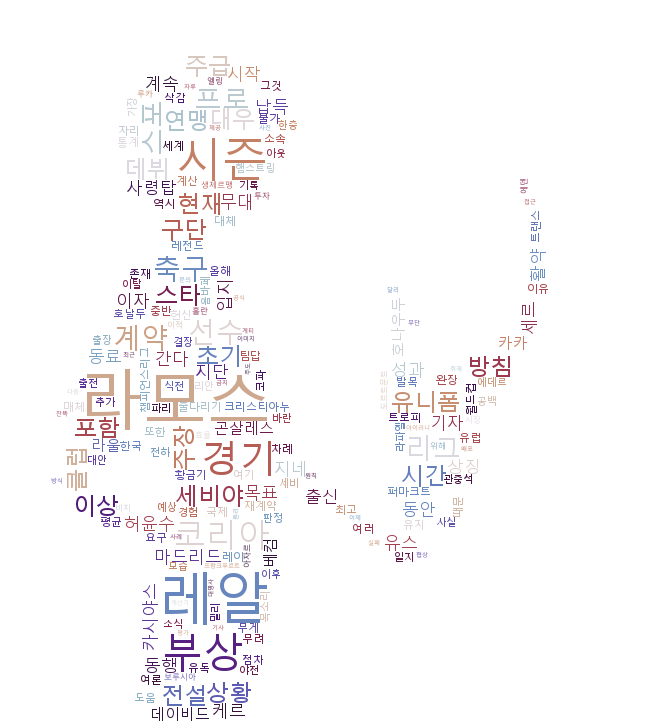
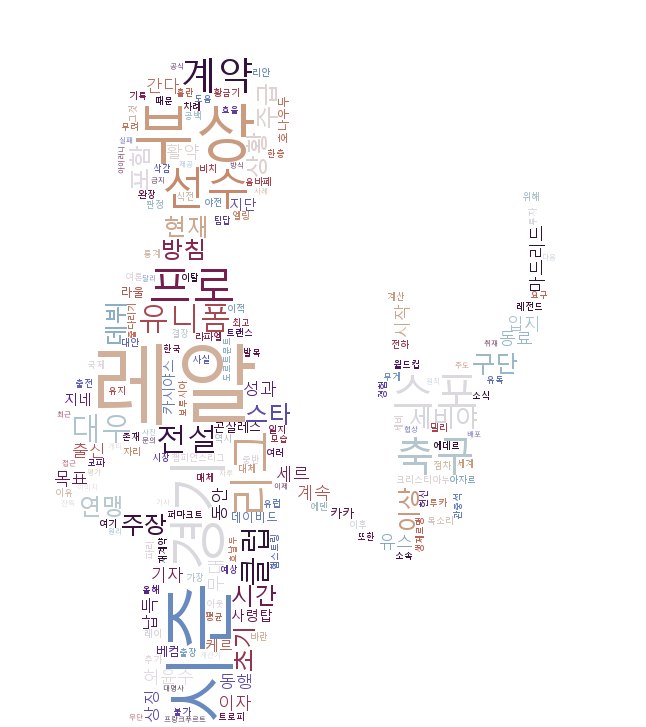
0513

Changed region(s): [[0.0929, 0.0605, 0.5573, 0.9986], [0.5573, 0.2421, 0.8669, 0.7868]]

diff --git a/SSW/ssw_20210513.py b/SSW/ssw_20210513.py
@@ -1,0 +1,115 @@
+'''
+이미지 처리
+https://pillow.readthedocs.io/en/stable/
+'''
+
+from PIL import Image, ImageFilter, ImageDraw, ImageFont
+import matplotlib.pyplot as plt
+import matplotlib.image as img
+
+# 간단한 사용법
+im = Image.open('mask.jpg')         # 이미지 파일 오픈
+print(im)
+print(im.format, im.size, im.mode)  # 이미지 파일 정보
+
+im.save('output.jpg')             # 파일 변환(저장)
+
+
+# 썸네일 생성
+im = Image.open('original.png')
+print(im.format, im.size, im.mode)
+
+im.thumbnail( (64, 64) )    # thumbnail( (가로, 세로) )
+im.save('output_thumbnail.png')
+
+
+# 이미지 자르기
+im = Image.open('original.png')
+temp = im.crop( (50, 50, 300, 300) )   # crop( (x1, y1, x2, y2) )
+temp.save('output_crop.png')
+
+
+# 이미지 회전
+im = Image.open('original.png')
+temp = im.rotate(180)
+temp.save('output_rotate.png')
+
+
+# 이미지 리사이징
+im = Image.open('original.png')
+temp = im.resize( (500, 500) )  # 가로/세로 비율도 함께 적용됨
+temp.save('output_resize.png')
+
+
+# 이미지 필터링
+im = Image.open('original.png')
+temp = im.filter(ImageFilter.EMBOSS)
+temp.save('output_emboss.png')
+
+list_var = [ImageFilter.BLUR, ImageFilter.CONTOUR, ImageFilter.DETAIL, 
+    ImageFilter.EDGE_ENHANCE, ImageFilter.EDGE_ENHANCE_MORE, ImageFilter.EMBOSS,
+    ImageFilter.FIND_EDGES, ImageFilter.SHARPEN, ImageFilter.SMOOTH,
+    ImageFilter.SMOOTH_MORE
+]
+print(len(list_var))
+# 퀴즈: list_var 안에 들어있는 모든 필터를 각각 적용하여
+# output_filter1.png ~ output_filter10.png 로 저장해보세요.
+
+# im = Image.open('original.png')
+# cnt = 0
+# for i in list_var:
+#     cnt = cnt + 1
+#     print(cnt, i)
+
+#     temp = im.filter(i)
+#     temp.save(f'output_{cnt}.png')
+
+
+# 이미지에 텍스트 넣기
+# im = Image.new(mode='RGB', size=(400, 400), color='#FFFFFF')
+im = Image.open('original.png')
+draw = ImageDraw.Draw(im)
+font = ImageFont.truetype(font='C:/Windows/Fonts/BROADW.TTF', size=24)
+draw.text((100, 100), 'Hello world!', fill='yellow', font=font)
+im.save('output_text.png', format='PNG')
+
+# plt.imshow(img.imread('output_text.png'))
+# plt.axis('off')
+# plt.show()
+
+
+# 이미지에 이미지 추가
+main_image = Image.open('original.png')
+sub_image = Image.open('mask.jpg')
+sub_image = sub_image.resize((200, 200))      # 추가 이미지 사이즈 변경
+main_image.paste(im=sub_image, box=(10, 10))  # box: 추가 이미지를 넣을 좌표
+main_image.save('output_add.png', format='PNG')
+
+
+# 워터마크 추가(투명도 적용)
+# 검색어 pil 이미지 투명 워터마크
+# (https://www.javaer101.com/ko/article/26402527.html)
+
+try:
+    main_image = Image.open('original100.png')
+    print(4 / 0)
+    sub_image = Image.open('mask.jpg')
+    sub_image = sub_image.resize(main_image.size)   # 메인 이미지 사이즈로 맞춤
+
+    TRANSPARENCY = 20   # 투명도
+
+    if sub_image.mode!='RGBA':
+        alpha = Image.new('L', sub_image.size, 255)
+        sub_image.putalpha(alpha)
+
+    paste_mask = sub_image.split()[3].point(lambda i: i * TRANSPARENCY / 100.)
+    main_image.paste(sub_image, (0,0), mask=paste_mask)
+    main_image.save('output_watermark.jpg')
+except FileNotFoundError as e:
+    print('오류 발생', e)
+except ZeroDivisionError as e:
+    print('0으로 나눌 수 없습니다.', e)
+except Exception as e:
+    print('기타 오류 발생', e)
+
+print('프로그램 종료')

diff --git a/Day09-0513.py b/Day09-0513.py
@@ -1,0 +1,83 @@
+# Day09-0513.py
+
+from PIL import Image, ImageFilter, ImageDraw, ImageFont
+import matplotlib.pyplot as plt
+
+img = Image.open('Resource/travel.png')
+img.thumbnail((64,64)) # 튜플형때문에 괄호로 묶어 호출
+img.save('Resource/travel_thumbnail.png')
+img.close()
+
+img = Image.open('Resource/travel.png')
+newImg = img.crop((10,10,100,100))
+newImg.save('Resource/travel_crop.png')
+newImg.close()
+img.close()
+
+img = Image.open('Resource/travel.png')
+newImg = img.rotate(180)
+newImg.save('Resource/travel_rotate.png')
+newImg.close()
+img.close()
+
+lImgFilter = [ImageFilter.BLUR, ImageFilter.CONTOUR, ImageFilter.DETAIL, 
+    ImageFilter.EDGE_ENHANCE, ImageFilter.EDGE_ENHANCE_MORE, ImageFilter.EMBOSS, ImageFilter.FIND_EDGES, 
+    ImageFilter.SHARPEN, ImageFilter.SMOOTH, ImageFilter.SMOOTH_MORE
+]
+
+img = Image.open('Resource/travel.png')
+for iCount, filter in enumerate(lImgFilter, 1):
+    
+    sFilterName = str(filter).split(".")[-1]
+    sFilterName = sFilterName.replace('>','')
+    sFilterName = sFilterName.replace("'",'')
+    
+    newImg = img.filter(filter)
+    # newImg.save('Resource/travel_Filter_%s.png' %(str(iCount).zfill(2)))
+    newImg.save(f'Resource/travel_Filter_{sFilterName}.png')
+    newImg.close()
+    
+img.close()
+
+# img = Image.new(mode='RGB', size=(500, 500), color='#FFFFFF')
+font = ImageFont.truetype('C:/Windows/Fonts/BROADW.TTF', size=40)
+
+img = Image.open('Resource/travel.png')
+draw = ImageDraw.Draw(img)
+draw.text((100, 100), 'Hello! Python', fill='#000000', font=font)
+img.save('Resource/travel_text.png', format='PNG')
+img.close()
+
+img = Image.open('Resource/travel.png')
+imgSub = Image.open('Resource/wordcloud.png')
+imgSub = imgSub.resize((100,100))
+img.paste(im=imgSub, box=(20,20))
+img.save('Resource/travel_wordcloud.png')
+img.close()
+
+TRANSPARENCY = 20   # 투명도
+
+main_image = Image.open('Resource/travel.png')
+sub_image = Image.open('Resource/wordcloud.png')
+sub_image = sub_image.resize(main_image.size)   # 메인 이미지 사이즈로 맞춤
+
+if sub_image.mode!='RGBA':
+    alpha = Image.new('L', sub_image.size, 255)
+    sub_image.putalpha(alpha)
+
+paste_mask = sub_image.split()[3].point(lambda i: i * TRANSPARENCY / 100)
+main_image.paste(sub_image, (0,0), mask=paste_mask)
+main_image.save(('Resource/watermark.png'))
+main_image.close()
+
+try:
+    plt.imshow(main_image)
+    # plt.imshow(img.imread('Resource/travel_wordcloud.png'))
+    plt.axis('off')
+    plt.show()
+    
+except TypeError as e:
+    print("Type error =", e)
+    
+except Exception as e:
+    print(e)

diff --git a/SSW/ssw_20210511_2.py b/SSW/ssw_20210511_2.py
@@ -6,6 +6,13 @@ pip install jpype1==1.2.0   # https://wikidocs.net/77163
 '''
 from konlpy.tag import Okt
 
+import wordcloud
+import matplotlib.pyplot as plt
+
+from PIL import Image
+import numpy as np
+import random
+
 # Okt 객체 선언(Twitter 클래스)
 okt = Okt()
 
@@ -23,8 +30,17 @@ f.close()
 nouns = okt.nouns(text)
 # print(nouns)
 
+no_words = ['언어', '프로그래밍']   # 제외할 단어 지정
 keywords = {}
 for i in nouns:
+    # 단어 중 한 글자짜리 제외시키기
+    if len(i) == 1:
+        continue
+    
+    # 제외 단어 리스트에 속해있으면 제외시키기
+    if i in no_words:
+        continue
+
     # 딕셔너리 안에 해당 키가 있으면 기존값 +1
     # 해당 키가 없으면 1 을 입력
     if keywords.get(i):
@@ -32,5 +48,26 @@ for i in nouns:
     else:
         keywords[i] = 1
 
-print(keywords)
+# print(keywords)
 
+mask = np.array(Image.open('mask2.jpg'))
+
+# 워드 클라우드 생성
+wc = wordcloud.WordCloud(font_path='c:/windows/fonts/malgun.ttf',
+                        background_color='white',    # #FF5E00, white, ...
+                        width=800,
+                        height=600,
+                        mask=mask,
+                        max_words=500,
+                        max_font_size=300,
+                        colormap='twilight_shifted'
+                        # Blues, Reds, plasma, prism, ... (오류 발생시 후보맵 조회 가능)
+)
+cloud = wc.generate_from_frequencies(keywords)
+
+wc.to_file('wc_test.png')
+
+# 워드 클라우드 출력
+plt.imshow(cloud)
+plt.axis('off') # 축 제거
+plt.show()

diff --git a/Question300.py b/Question300.py
@@ -585,4 +585,27 @@ my_dict = {"10/26" : [100, 130, 100, 100],
 
 printDicValue(my_dict, "10/26")
 
+# 226, 227
+def printFiveText(sText, iMinLen):
+    sTemp = ""
+    for iCount, sValue in enumerate(sText,1):
+        sTemp = f"{sTemp}{sValue}"
+        
+        if iCount % iMinLen == 0:
+            print(f"Text = {sTemp}")
+            sTemp = ""
+    
+    if sTemp != "":
+        print(f"Text = {sTemp}")
+
+printFiveText("1234567890", 3)
+
+# 228
+def printMonthSalary(iYearSalary):
+    print("Month salary = %d" %(iYearSalary/12))
+    
+printMonthSalary(120)
+
+# 229 
+# L=200, R=100
 

diff --git a/CodeStamp.py b/CodeStamp.py
@@ -1,0 +1,21 @@
+
+# 1 - 배열에 최대값, 최소값 , 중간값을 출력해보기
+import random
+import math
+
+lNum = []
+for iLoop in range(0,10,1):
+    lNum.append(random.randint(1,10))
+
+# Remove duplicate values by set()
+lNum = list(set(lNum))
+lNum.sort()
+
+# Middle value's index
+iMiddle = round(len(lNum) / 2)
+
+# Print results
+print("Numbers =", lNum)
+print("Min = %d" %(lNum[0]))
+print("Max = %d" %(lNum[-1]))
+print("Middle = %d" %(lNum[iMiddle]))

diff --git a/Day08-0511.py b/Day08-0511.py
@@ -47,9 +47,13 @@ file.close()
 okt = Okt()
 lKeyword  = okt.nouns(sNews)
 
+lSkipWord = ["라모스", "코리아"]
+
 for sKey in lKeyword:
     
     if len(sKey) <= 1:
+        continue
+    elif(sKey in lSkipWord):
         continue
     
     if keywords.get(sKey):
